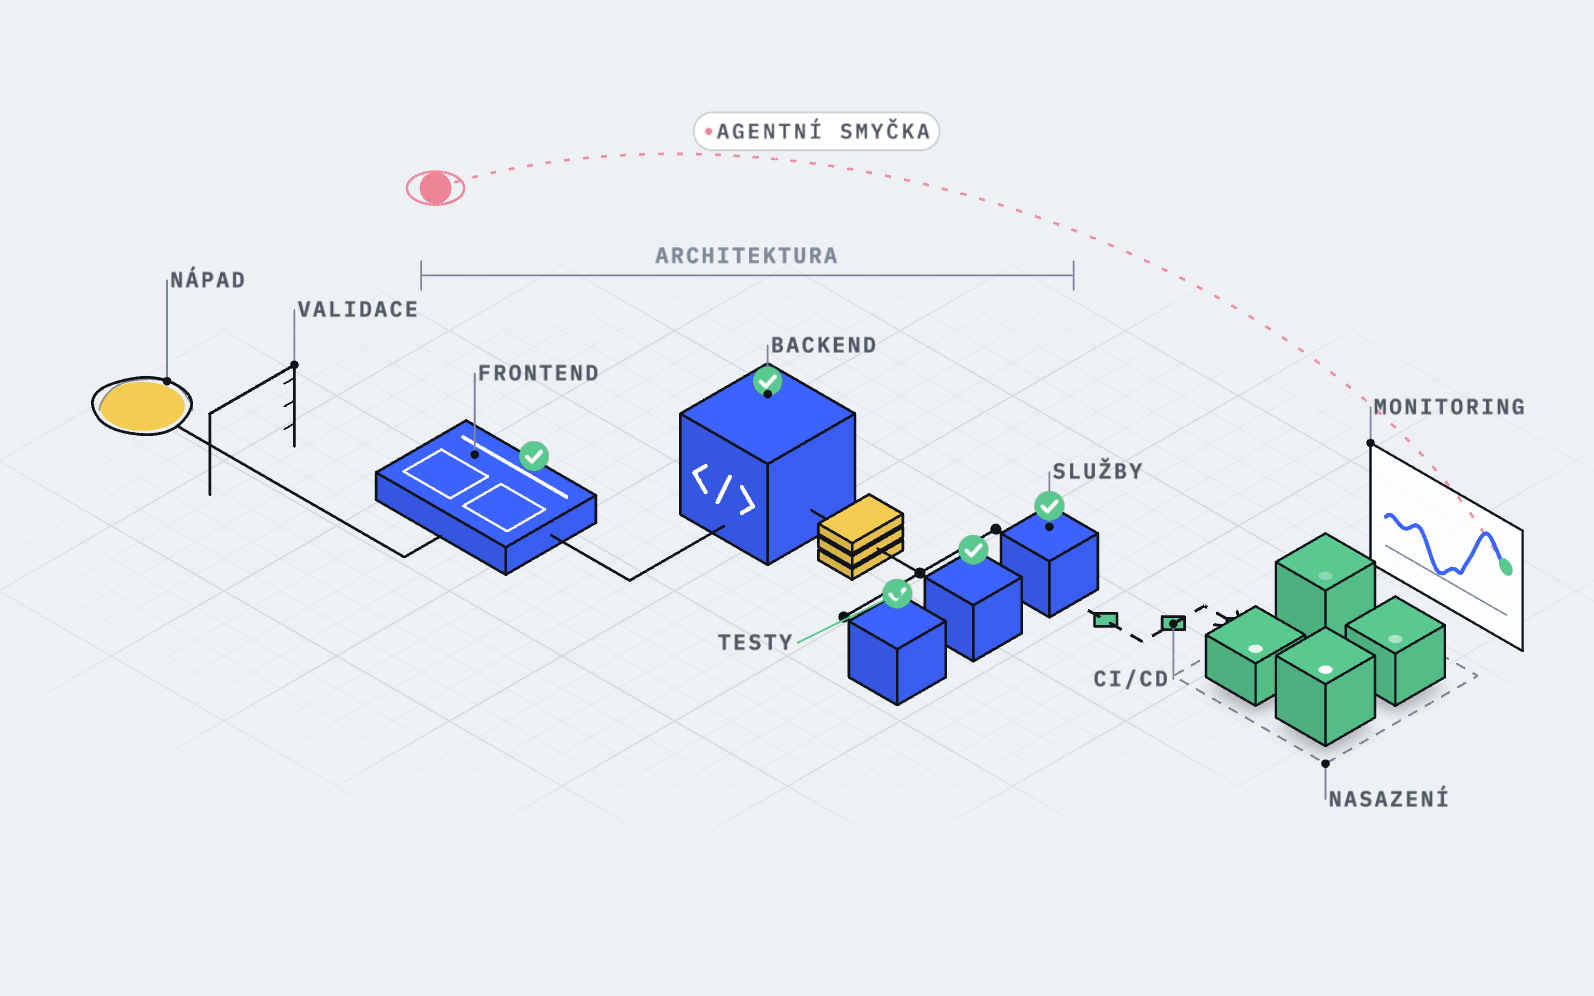
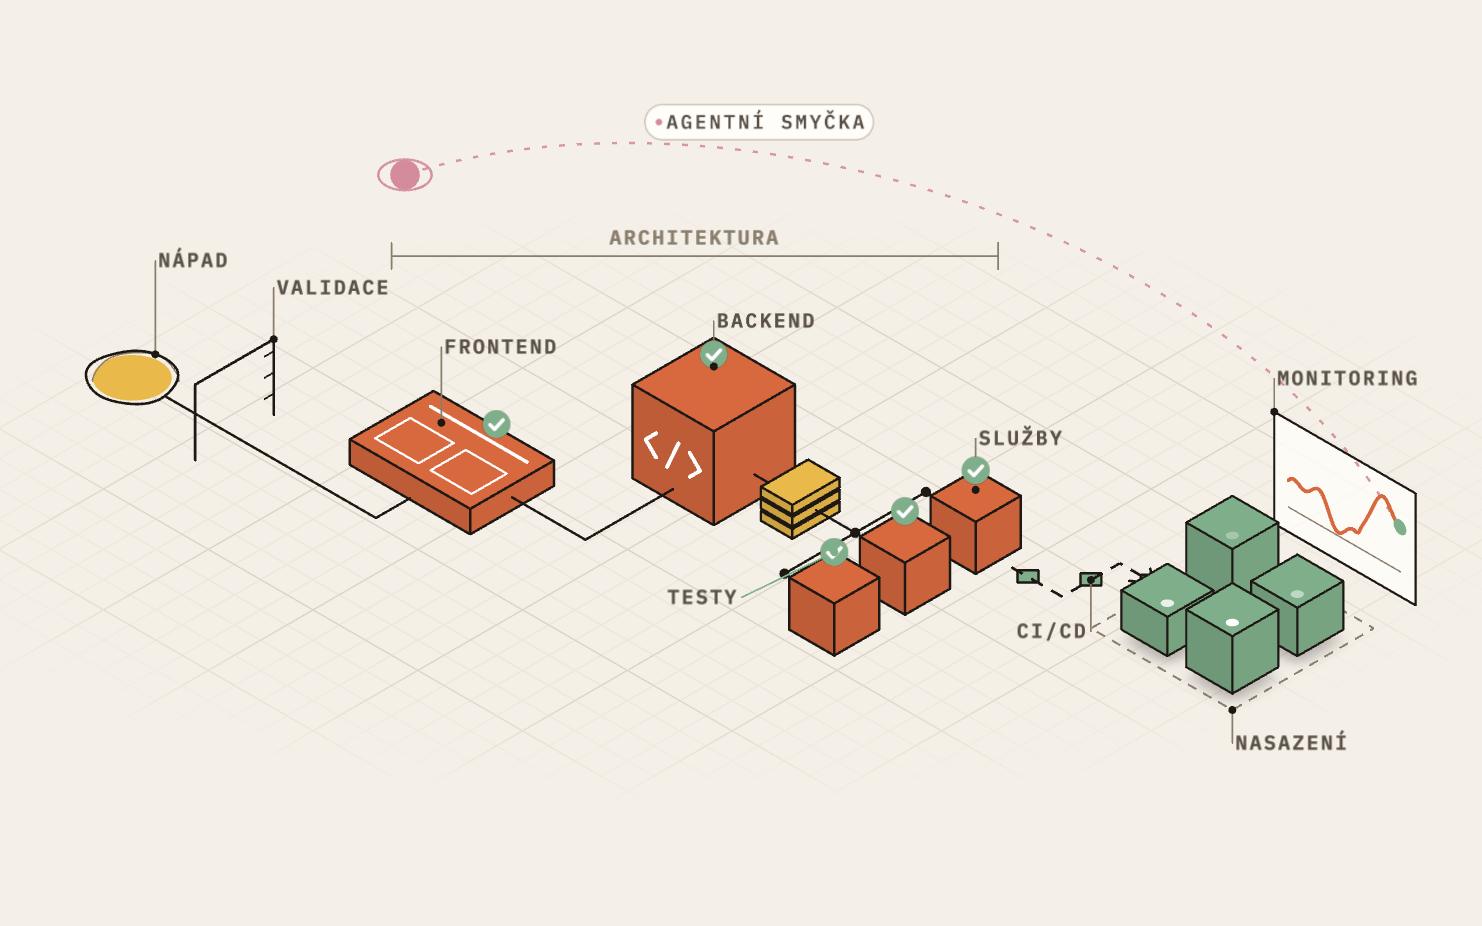
style(colors): Terracotta paper: warm paper, terracotta accent, sand gradient
Colour variant for review: light and dark tokens, page and contact-panel gradients,
translucent header, the 3D hero palette and re-rendered posters (EN and CS, desktop
and phone), favicon and theme-color. Layout and copy are unchanged. Every text pair
passes WCAG AA (4.5:1), UI lines and focus 3:1.

diff --git a/src/styles/global.css b/src/styles/global.css
@@ -10,35 +10,36 @@
 /* default follows prefers-color-scheme — see the inline script in      */
 /* BaseLayout).                                                         */
 /* ------------------------------------------------------------------ */
+/* Colour variant: Terracotta paper: warm paper, terracotta accent, sand gradient (branch colors/terracotta). */
 @custom-variant dark (&:where(.dark, .dark *));
 
 :root {
   color-scheme: light;
-  --bg: #eef1f4;
-  --surface: #ffffff;
-  --surface-sunken: #e9edf2;
-  --line: #d4dae1;
-  --line-strong: #7d879a;
-  --ink: #10141a;
-  --ink-muted: #4d5662;
-  --accent: #2450ff;
-  --accent-hover: #1a3fe0;
+  --bg: #f4efe7;
+  --surface: #fffdf9;
+  --surface-sunken: #ece5da;
+  --line: #ddd3c4;
+  --line-strong: #8a7d6b;
+  --ink: #1d1813;
+  --ink-muted: #5a5045;
+  --accent: #a33c16;
+  --accent-hover: #86300f;
   --on-accent: #ffffff;
-  --accent-soft: #e6ebff;
-  --ok-ink: #1c7a4a;
-  --ok-soft: #e4f4ea;
-  --caution: #f4cc52;
+  --accent-soft: #f8e3d6;
+  --ok-ink: #2a7144;
+  --ok-soft: #e3f1e4;
+  --caution: #e9b949;
   --error-ink: #b42318;
-  --focus: #2450ff;
-  --clay-white: #f6f7f8;
-  --clay-grey: #c7cdd5;
-  --clay-blue: #3d63ff;
-  --clay-mint: #59c990;
-  --clay-butter: #f4cc52;
-  --clay-rose: #ee8597;
-  --clay-stone: #e9edf2;
-  --shadow-pop: 0 12px 32px rgba(16, 20, 26, 0.08);
-  --shadow-focus: 0 0 0 2px #eef1f4, 0 0 0 4px #2450ff;
+  --focus: #a33c16;
+  --clay-white: #faf6f0;
+  --clay-grey: #cfc5b6;
+  --clay-blue: #d8693f;
+  --clay-mint: #7fae8a;
+  --clay-butter: #e9b949;
+  --clay-rose: #d48c9b;
+  --clay-stone: #efe7db;
+  --shadow-pop: 0 12px 32px rgba(29, 24, 19, 0.09);
+  --shadow-focus: 0 0 0 2px #f4efe7, 0 0 0 4px #a33c16;
 
   /* Page gutter and content width from the approved artboard. */
   --gutter: clamp(16px, 4vw, 56px);
@@ -49,39 +50,41 @@
   /* Gradient layers a palette can paint over the flat colours (none by default): the
      page behind every band (over --bg), the contact panel (over --accent); and the
      sticky header, with an optional backdrop filter when the page behind it is not flat. */
-  --page-bg: none;
-  --panel-bg: none;
-  --header-bg: var(--bg);
-  --header-filter: none;
+  --page-bg: linear-gradient(180deg, var(--bg) 0, var(--bg) 960px, #efe5d6 62%, #e9d8c2 100%);
+  --panel-bg: linear-gradient(135deg, #b4441b 0%, #9a3414 55%, #7f2a10 100%);
+  --header-bg: color-mix(in srgb, var(--bg) 86%, transparent);
+  --header-filter: saturate(1.2) blur(12px);
 }
 
 .dark {
   color-scheme: dark;
-  --bg: #0e1116;
-  --surface: #171b22;
-  --surface-sunken: #12161c;
-  --line: #2a313b;
-  --line-strong: #6b7686;
-  --ink: #eef1f4;
-  --ink-muted: #a3acb8;
-  --accent: #7d9bff;
-  --accent-hover: #9cb3ff;
-  --on-accent: #0e1116;
-  --accent-soft: #1c2440;
-  --ok-ink: #59c990;
-  --ok-soft: #12301f;
-  --caution: #f4cc52;
+  --bg: #15110d;
+  --surface: #1f1a15;
+  --surface-sunken: #110e0a;
+  --line: #352c24;
+  --line-strong: #86796a;
+  --ink: #f3ece2;
+  --ink-muted: #b5a998;
+  --accent: #f08a5d;
+  --accent-hover: #f6a37f;
+  --on-accent: #15110d;
+  --accent-soft: #3a2317;
+  --ok-ink: #7fc79a;
+  --ok-soft: #16301f;
+  --caution: #e9b949;
   --error-ink: #ff7b72;
-  --focus: #7d9bff;
-  --clay-white: #e3e7ec;
-  --clay-grey: #8c96a4;
-  --clay-blue: #5b7cff;
-  --clay-mint: #59c990;
-  --clay-butter: #f4cc52;
-  --clay-rose: #ee8597;
-  --clay-stone: #e9edf2;
-  --shadow-pop: 0 12px 32px rgba(0, 0, 0, 0.4);
-  --shadow-focus: 0 0 0 2px #0e1116, 0 0 0 4px #7d9bff;
+  --focus: #f08a5d;
+  --clay-white: #e8e0d4;
+  --clay-grey: #8f8373;
+  --clay-blue: #e0764a;
+  --clay-mint: #7fae8a;
+  --clay-butter: #e9b949;
+  --clay-rose: #d695a5;
+  --clay-stone: #e6ddd0;
+  --shadow-pop: 0 12px 32px rgba(0, 0, 0, 0.45);
+  --shadow-focus: 0 0 0 2px #15110d, 0 0 0 4px #f08a5d;
+  --page-bg: linear-gradient(180deg, var(--bg) 0, var(--bg) 960px, #1b1510 62%, #261b13 100%);
+  --panel-bg: linear-gradient(135deg, #f29467 0%, #e07445 100%);
 }
 
 @theme inline {

diff --git a/src/scripts/hero3d.ts b/src/scripts/hero3d.ts
@@ -117,38 +117,38 @@ type Palette = {
 /** Palettes from r4v6.html (the approved renders); bg = the page `--bg` token. */
 const PALETTES: Record<"light" | "dark", Palette> = {
   light: {
-    bg: "#EEF1F4",
-    ink: "#10141A",
-    faint: "#7D879A",
-    label: "#4D5662",
-    grid: "#DDE2E8",
-    gridMajor: "#CDD4DC",
-    blue: "#3D63FF",
-    mint: "#59C990",
-    butter: "#F4CC52",
-    rose: "#EE8597",
-    paper: "#FFFFFF",
+    bg: "#F4EFE7",
+    ink: "#1D1813",
+    faint: "#8A7D6B",
+    label: "#5A5045",
+    grid: "#E6DED2",
+    gridMajor: "#D6CCBD",
+    blue: "#D8693F",
+    mint: "#7FAE8A",
+    butter: "#E9B949",
+    rose: "#D48C9B",
+    paper: "#FFFDF9",
     white: "#FFFFFF",
-    shadow: "#1B2A44",
-    fillShade: "#10141A",
-    tagLine: "#D4DAE1",
+    shadow: "#3F271B",
+    fillShade: "#1D1813",
+    tagLine: "#DDD3C4",
   },
   dark: {
-    bg: "#0E1116",
-    ink: "#EEF1F4",
-    faint: "#8C96A4",
-    label: "#A3ACB8",
-    grid: "#1D232C",
-    gridMajor: "#252D38",
-    blue: "#4F72FF",
-    mint: "#59C990",
-    butter: "#F4CC52",
-    rose: "#EE8597",
-    paper: "#171B22",
-    white: "#EEF1F4",
+    bg: "#15110D",
+    ink: "#F3ECE2",
+    faint: "#8F8373",
+    label: "#B5A998",
+    grid: "#27201A",
+    gridMajor: "#302821",
+    blue: "#E0764A",
+    mint: "#7FAE8A",
+    butter: "#E9B949",
+    rose: "#D695A5",
+    paper: "#1F1A15",
+    white: "#F3ECE2",
     shadow: "#000000",
-    fillShade: "#05070A",
-    tagLine: "#2A313B",
+    fillShade: "#080705",
+    tagLine: "#352C24",
   },
 };
 

diff --git a/tests/e2e/smoke.spec.ts b/tests/e2e/smoke.spec.ts
@@ -173,7 +173,7 @@ test.describe("dark theme", () => {
     await expect(page.locator("html")).toHaveClass(/\bdark\b/);
     await expect(page.locator("[data-theme-toggle]")).toHaveAttribute("aria-pressed", "true");
     const bg = await page.evaluate(() => getComputedStyle(document.body).backgroundColor);
-    expect(bg).toBe("rgb(14, 17, 22)");
+    expect(bg).toBe("rgb(21, 17, 13)");
     const poster = page.locator("[data-hero-stage] img");
     await expect(poster).toHaveJSProperty("complete", true);
     expect(await poster.evaluate((img: HTMLImageElement) => img.currentSrc)).toMatch(
@@ -186,7 +186,7 @@ test.describe("dark theme", () => {
     await page.goto("/about");
     await expect(page.locator("html")).not.toHaveClass(/\bdark\b/);
     const bg = await page.evaluate(() => getComputedStyle(document.body).backgroundColor);
-    expect(bg).toBe("rgb(238, 241, 244)");
+    expect(bg).toBe("rgb(244, 239, 231)");
   });
 });
 
